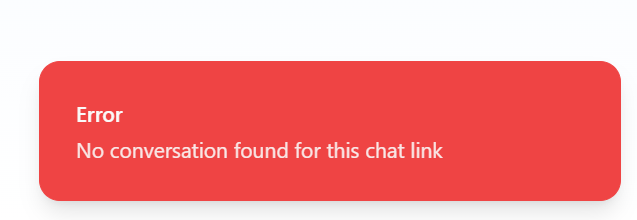
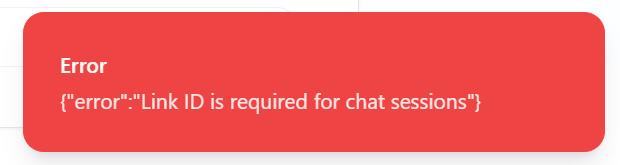
Agent query: Can you verify if the application now properly requires and uses the linkId from URL parameters?
Rename sessionId parameter to linkId in ConversationAnalysis page.

Screenshot: https://storage.googleapis.com/screenshot-production-us-central1/354e5987-963e-41a0-9bf0-0575f8631bcb/0f717937-4be8-4d33-84c5-b20a875e2ada.jpg

diff --git a/client/src/pages/ConversationAnalysis.tsx b/client/src/pages/ConversationAnalysis.tsx
@@ -51,13 +51,13 @@ export default function ConversationAnalysis() {
         throw new Error("Invalid chat URL - missing configId");
       }
 
-      if (!sessionId) {
-        throw new Error("Invalid chat URL - missing sessionId");
+      if (!linkId) {
+        throw new Error("Invalid chat URL - missing linkId");
       }
 
-      console.log("Analyzing conversation with:", { configId, sessionId, url: chatUrl });
+      console.log("Analyzing conversation with:", { configId, linkId, url: chatUrl });
       console.log('Starting analysis with URL:', chatUrl);
-      console.log('Extracted params:', { configId, sessionId });
+      console.log('Extracted params:', { configId, linkId });
 
       // Fetch config to get feedback criteria
       console.log('Fetching chat configuration...');
